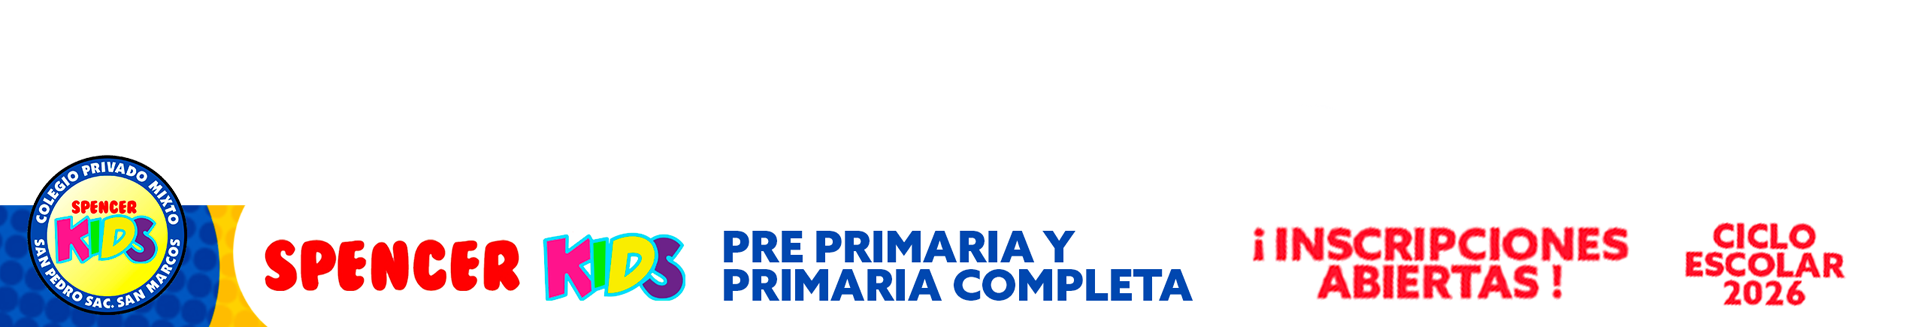
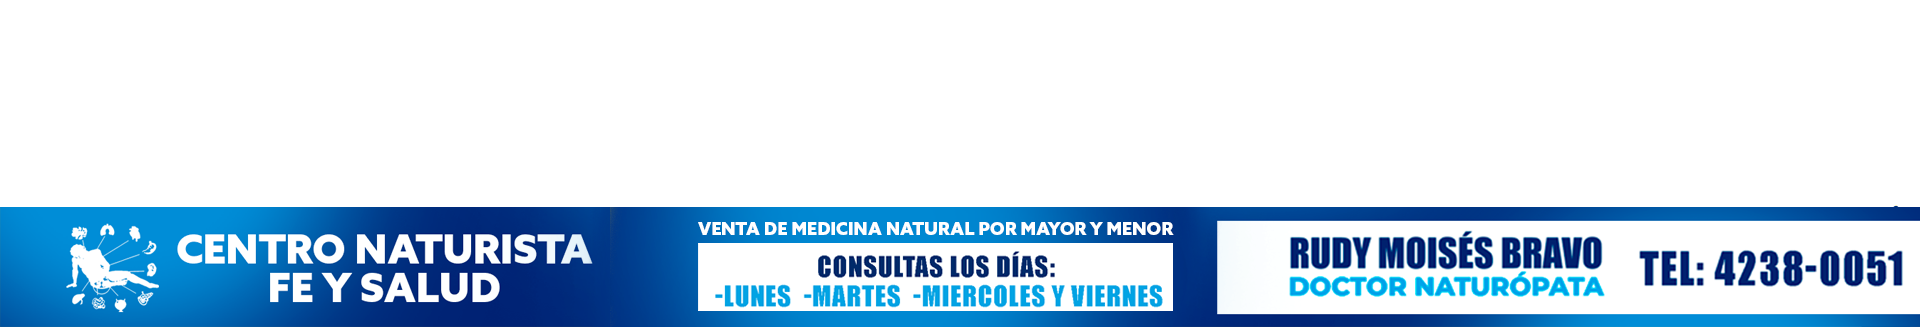
a new

Changed region(s): [[0.0, 0.4587, 1.0, 1.0]]

diff --git a/stream/patrocinadores/index.html b/stream/patrocinadores/index.html
@@ -14,14 +14,16 @@
 
             <div class="swiper mySwiper">
     <div class="swiper-wrapper">
-        <div class="swiper-slide"><img style="width: 100%;" src="patrocinadores cintillos/p (7).png"  style="cursor: pointer;" onclick="mostrarContenido(2)"/></div>
-        <div class="swiper-slide"><img style="width: 100%;" src="patrocinadores cintillos/p (1).png" style="cursor: pointer;" onclick="mostrarContenido(3)"/></div>
-        <div class="swiper-slide"><img style="width: 100%;" src="patrocinadores cintillos/p (2).png" style="cursor: pointer;" onclick="mostrarContenido(2)"/></div>
-        <div class="swiper-slide"><img style="width: 100%;" src="patrocinadores cintillos/p (11).png"  style="cursor: pointer;" onclick="mostrarContenido(2)"/></div>
-        <div class="swiper-slide"><img style="width: 100%;" src="patrocinadores cintillos/p (6).png"  style="cursor: pointer;" onclick="mostrarContenido(2)"/></div>
+        <div class="swiper-slide"><img style="width: 100%;" src="patrocinadores cintillos/p (3).png"  style="cursor: pointer;" onclick="mostrarContenido(2)"/></div>
+        <div class="swiper-slide"><img style="width: 100%;" src="patrocinadores cintillos/p (7).png" style="cursor: pointer;" onclick="mostrarContenido(3)"/></div>
+        <div class="swiper-slide"><img style="width: 100%;" src="patrocinadores cintillos/p (6).png" style="cursor: pointer;" onclick="mostrarContenido(2)"/></div>
+        <div class="swiper-slide"><img style="width: 100%;" src="patrocinadores cintillos/p (5).png"  style="cursor: pointer;" onclick="mostrarContenido(2)"/></div>
+                <div class="swiper-slide"><img style="width: 100%;" src="patrocinadores cintillos/p (3).png"  style="cursor: pointer;" onclick="mostrarContenido(2)"/></div>
         <div class="swiper-slide"><img style="width: 100%;" src="patrocinadores cintillos/p (8).png"  style="cursor: pointer;" onclick="mostrarContenido(2)"/></div>
-        <div class="swiper-slide"><img style="width: 100%;" src="patrocinadores cintillos/p (9).png"  style="cursor: pointer;" onclick="mostrarContenido(2)"/></div>
-        <div class="swiper-slide"><img style="width: 100%;" src="patrocinadores cintillos/p (10).png"  style="cursor: pointer;" onclick="mostrarContenido(2)"/></div>
+        <div class="swiper-slide"><img style="width: 100%;" src="patrocinadores cintillos/p (2).png"  style="cursor: pointer;" onclick="mostrarContenido(2)"/></div>
+        <div class="swiper-slide"><img style="width: 100%;" src="patrocinadores cintillos/p (1).png"  style="cursor: pointer;" onclick="mostrarContenido(2)"/></div>
+            <div class="swiper-slide"><img style="width: 100%;" src="patrocinadores cintillos/p (9).png"  style="cursor: pointer;" onclick="mostrarContenido(2)"/></div>
+        <div class="swiper-slide"><img style="width: 100%;" src="patrocinadores cintillos/p (4).png"  style="cursor: pointer;" onclick="mostrarContenido(2)"/></div>
     </div>
   </div>
 
